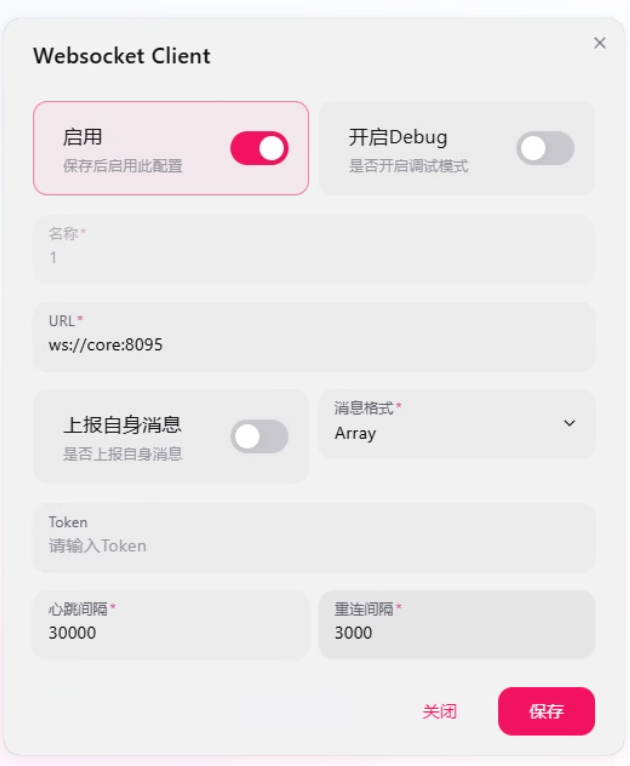
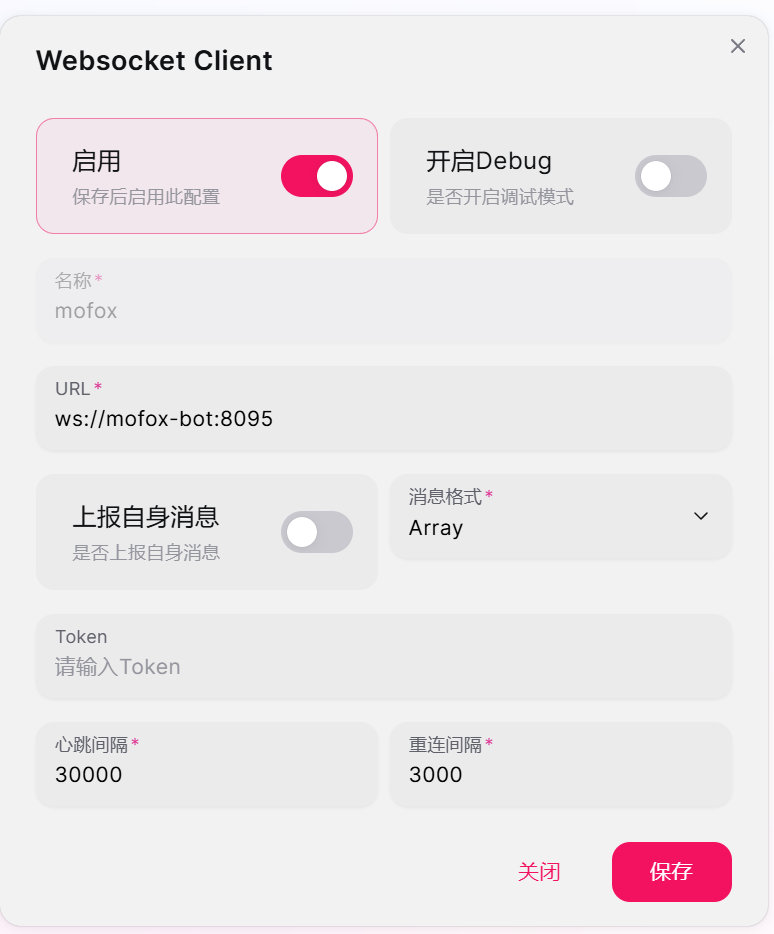
更新docker文档喵（（

diff --git a/docs/guides/mmc_deploy_docker.md b/docs/guides/mmc_deploy_docker.md
@@ -99,9 +99,11 @@ cd Neo-MoFox
         ```
 
 2.  **配置监听地址**:
-    *   **重要**: Docker 部署时，需要让服务监听所有网络接口。找到 `HOST="127.0.0.1"`，将其修改为：
+    *   **重要**: Docker 部署时，需要让服务监听所有网络接口。找到"Neo-MoFox\config\plugins\napcat_adapter\config.toml" `host = "localhost"`，将其修改为：
         ```
-        HOST="0.0.0.0"
+        # Napcat WebSocket 服务地址
+        # 值类型：str, 默认值："localhost"
+        host = "0.0.0.0"
         ```
 
 ### 3.2 网络预留
@@ -139,10 +141,6 @@ cd Neo-MoFox
     *   找到 **WebSocket 客户端** 选项，点击 **新建客户端**。
     *   按照下图所示配置参数（具体地址请参考图片配置）：
         ![Napcat 配置](../assets/napcat-docker.png)
-    *   **修改适配器配置**:
-        *   在宿主机项目目录下，打开 `config/plugins/napcat_adapter_plugin/config.toml`。
-        *   将 `Napcat WebSocket 服务地址` 从 `localhost` 改为 `0.0.0.0`。
-        *   修改完成后，由于是 Docker 部署，需要执行 `docker compose restart core` 以应用配置。
 
 > **💡 小贴士**: 若无法打开页面，请务必检查服务器的**防火墙或安全组**是否已放行 **6099** 端口。成功连接后，机器人的冒险就正式开始了！
 
